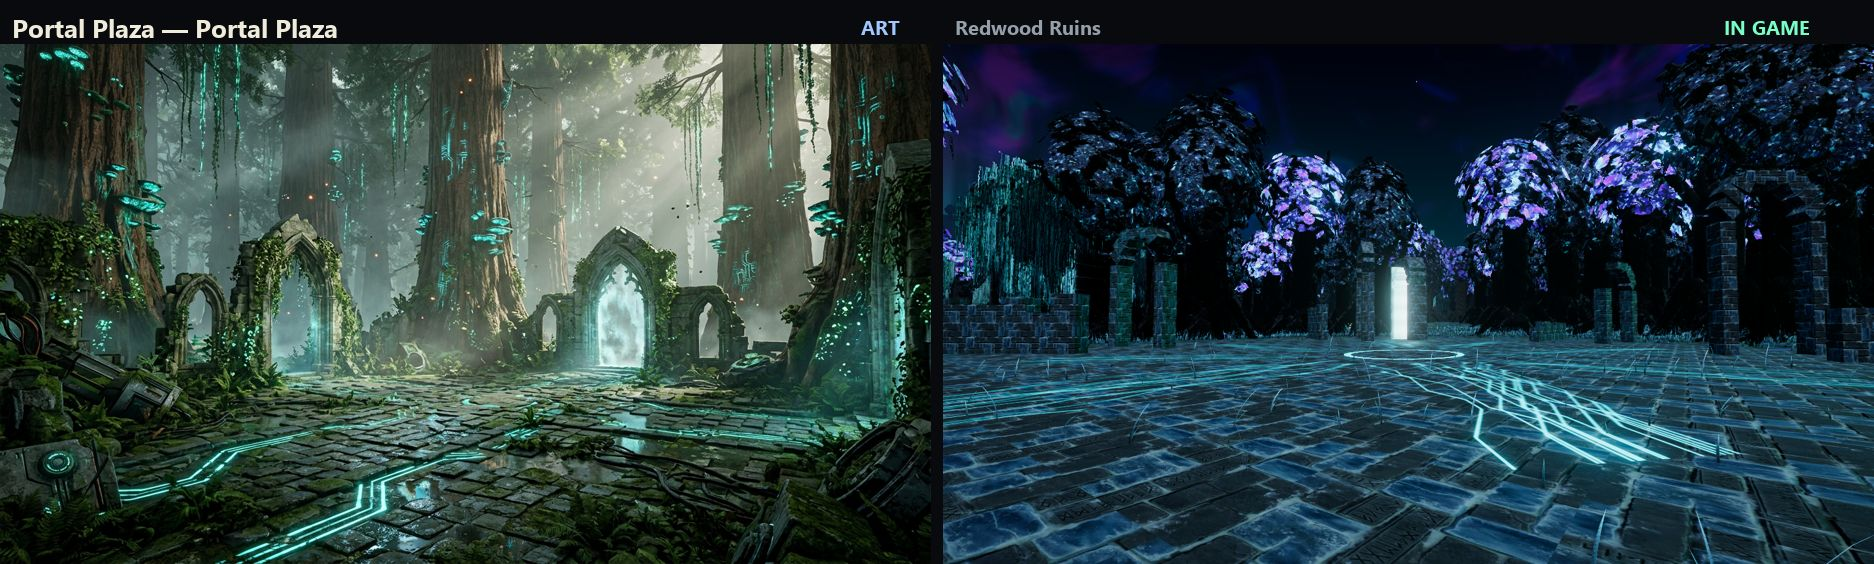
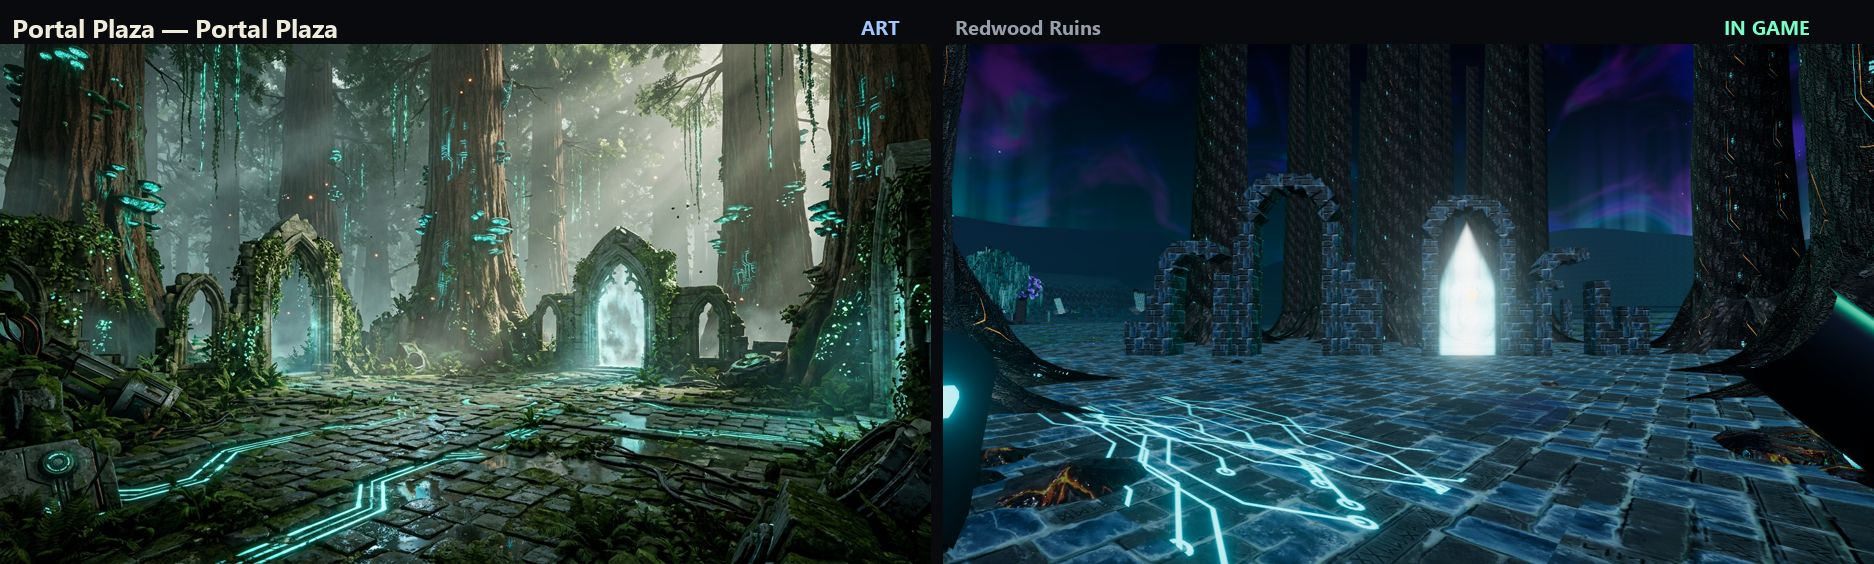
feat(rift-realm): depth score vs the art, Portal Plaza rebuilt from its shot's camera
- scripts/riftrealm/wilds_depth.py: art + game frame through the same local depth model (Depth Anything V2),
  aligned; layout and silhouette scores, diagnostic sheets
- Portal Plaza: redwood trunks framing the view, the ruin line with the arch and portal where the shot has them,
  a deeper stand behind, puddles, wreckage; silhouettes 0.238 -> 0.271 (total 0.627 -> 0.610: sky/haze and floor
  clutter dominate the remaining gap, noted in the doc)

Changed region(s): [[0.4952, 0.0603, 1.0, 1.0], [0.8975, 0.9947, 0.9285, 1.0], [0.7428, 0.1507, 0.7737, 0.1809]]

diff --git a/games/rift-realm/src/world/places.ts b/games/rift-realm/src/world/places.ts
@@ -7,6 +7,7 @@ import { CF_PLATFORM_OAK, CYBER_FOREST_TREES } from '../../../../services/vegeta
 import type { WildsCtx } from './registry';
 import type { WorldTerrain } from './terrain';
 import { type Kit, uniformBeat } from './kit';
+import { barkTube } from '../cyberforest';
 import { GREAT_FALLS, NEON_FALLS, POOL_FALLS, POOL_STREAM, RIVER, gorgeX, place, placeY, polyNear } from './layout';
 
 // the hollow's Great Oak deck (elderwood.ts OAK / DECK_R / DECK_Y)
@@ -22,6 +23,7 @@ export interface PlaceOut {
 }
 
 export function buildPlaces(ctx: WildsCtx, T: WorldTerrain, K: Kit): PlaceOut {
+  const terrain = T;
   const out: PlaceOut = { trees: [], clear: [], models: [], glows: [] };
   const H = (x: number, z: number) => T.surface(x, z);
   const { kit, B, mats, group, lo } = ctx;
@@ -550,25 +552,76 @@ export function buildPlaces(ctx: WildsCtx, T: WorldTerrain, K: Kit): PlaceOut {
   }
 
   function ruins() {
-    // ── Portal Plaza: flagstones under redwoods, gothic arches, the portal gate, cyan floor lines ──
+    // ── Portal Plaza (Bioluminescent_cyber_forest_spawn), composed from the shot's own camera: columnar redwood trunks
+    //    4–5 m across frame it; 31 m out a ruined wall line crosses the view (a tall pointed arch left, the portal gate
+    //    right of centre between broken arches); broken paving with puddles and circuit lines; machinery wreck in the
+    //    near corners. Scored with scripts/riftrealm/wilds_depth.py. ──
     {
       const p = place('portal-plaza'), py = placeY(p);
-      K.discPave(p.x, p.z, 26, py, 40);
-      for (let k = 0; k < 8; k++) K.circuit(p.x + Math.sin(k * 0.785) * 12, py, p.z + Math.cos(k * 0.785) * 12, 6, 14, k * 0.785, 0x2ae6ff, 80 + k);
-      K.ring(p.x, py, p.z, 3.2, 3.6);
-      const gx = p.x + 18, gz = p.z - 12, gyaw = -2.2;
-      K.arch(gx, gz, gyaw, 4.6, 6, { y: py, pointed: true, depth: 2 });
+      // the shot's camera (shots.ts): f = forward, r = screen right; at(d, s) = d metres ahead, s to the right
+      const cam = { x: 380, z: -96 }, fl = Math.hypot(38, -26), f = { x: 38 / fl, z: -26 / fl }, r = { x: -f.z, z: f.x };
+      const at = (d: number, s: number) => ({ x: cam.x + f.x * d + r.x * s, z: cam.z + f.z * d + r.z * s });
+      const wallYaw = Math.atan2(-r.z, r.x);                     // kit walls and arches run along (cos yaw, -sin yaw) = r
+      K.discPave(p.x, p.z, 30, py, 48);
+      // puddles in the sunk flagstones (the art's wet floor catching the glow)
+      const puddle = new THREE.MeshStandardNodeMaterial({ color: 0x0a1418, roughness: 0.03, metalness: 0.2, transparent: true, opacity: 0.55 });
+      for (const [d, s, rad] of [[9, 2, 1.4], [14, 6, 1.0], [17, -3, 1.2], [20, 3, 0.8], [12, -5, 0.7]] as const) {
+        const q = at(d, s), m = new THREE.Mesh(new THREE.CircleGeometry(rad, 24), puddle); m.rotation.x = -Math.PI / 2; m.scale.set(1.6, 1, 1); m.position.set(q.x, py + 0.05, q.z); group.add(m);
+      }
+      // circuit lines: in from the bottom-left of the frame toward the portal, and a ring of them round the plaza
+      { const q = at(7, -3.5); K.circuit(q.x, py, q.z, 3.5, 9, Math.atan2(f.x, f.z) + 0.9, 0x2ae6ff, 81); }
+      for (let k = 0; k < 3; k++) K.circuit(p.x + Math.sin(k * 2.1 + 2) * 20, py, p.z + Math.cos(k * 2.1 + 2) * 20, 4, 9, k * 2.1, 0x2ae6ff, 83 + k);
+      // the ruin line across the view: [s right, opening, pier height, broken stones]
+      const WD = 24;
+      for (const [sx, w, h, br] of [[-12.5, 2.5, 4.8, 2], [-7, 4.0, 7.8, 0], [3.5, 3.6, 6.8, 0], [9.5, 2.5, 4.4, 3]] as const) {
+        const q = at(WD, sx); K.arch(q.x, q.z, wallYaw, w, h, { y: py, pointed: true, depth: 1.6, broken: br });
+      }
+      for (const [s0, s1, h] of [[-16.5, -14.4, 4.0], [-10.2, -9.6, 8.2], [-4.6, -1.8, 6.5], [5.8, 7.8, 6.0], [11.2, 14, 3.2]] as const) {
+        const q = at(WD + 0.3, (s0 + s1) / 2); K.ruinWall(q.x, q.z, wallYaw, s1 - s0 + 0.4, h, s0 * 3 + 7);
+      }
+      // a second, lower line further back (the deeper arches in the haze)
+      for (const sx of [-4, 7, 16]) { const q = at(46, sx); K.arch(q.x, q.z, wallYaw, 3, 4.6, { y: H(q.x, q.z), pointed: true, broken: sx > 10 ? 2 : 0 }); }
+      // the portal, filling the arch right of centre (pointed top)
+      const g = at(WD, 3.5);
       const portal = new THREE.MeshBasicNodeMaterial({ transparent: true, side: THREE.DoubleSide, depthWrite: false });
       const pu = uv(); const shimmer = sin(pu.y.mul(30).sub(time.mul(3))).mul(0.15).add(0.85);
-      portal.colorNode = mix(color(0x9ff8ff), color(0xffffff), smoothstep(float(0.3), float(0.0), pu.x.sub(0.5).abs())).mul(shimmer).mul(float(1.8).add(beat.mul(0.8)));
-      portal.opacityNode = smoothstep(float(0.5), float(0.38), pu.x.sub(0.5).abs()).mul(0.85);
-      const pm = new THREE.Mesh(new THREE.PlaneGeometry(4.4, 8.2), portal); pm.position.set(gx, py + 4.1, gz); pm.rotation.y = gyaw + Math.PI / 2; group.add(pm);
-      for (const [a, r, w, h, br] of [[2.4, 20, 5, 7, 0], [3.4, 22, 4, 6.5, 2], [0.6, 22, 4.5, 8, 0], [1.2, 24, 3.6, 5, 4]] as const) K.arch(p.x + Math.sin(a) * r, p.z + Math.cos(a) * r, a + Math.PI / 2, w, h, { y: py, pointed: true, broken: br });
-      for (let k = 0; k < 6; k++) { const a = k * 1.1 + 0.4; K.ruinWall(p.x + Math.sin(a) * 25, p.z + Math.cos(a) * 25, a + Math.PI / 2, 6 + R() * 5, 2 + R() * 3, k + 20); }
-      for (let k = 0; k < 9; k++) { const a = (k / 9) * 6.283 + 0.2, r = 38 + R() * 12; giant(p.x + Math.sin(a) * r, p.z + Math.cos(a) * r, py + 38 + R() * 10, 2); }
-      out.clear.push([p.x, p.z, 30]);
-      glowAt(gx, py + 3, gz);
-      K.lamp(gx - 2, py + 3, gz + 2, 0x9ff8ff, 30);
+      const archShape = smoothstep(float(0.5), float(0.4), pu.x.sub(0.5).abs()).mul(smoothstep(float(1.0), float(0.82), pu.y.add(pu.x.sub(0.5).abs().mul(0.9))));
+      portal.colorNode = mix(color(0x7ff0ff), color(0xf4ffff), smoothstep(float(0.35), float(0.0), pu.x.sub(0.5).abs())).mul(shimmer).mul(float(1.9).add(beat.mul(0.8)));
+      portal.opacityNode = archShape.mul(0.9);
+      const pm = new THREE.Mesh(new THREE.PlaneGeometry(3.5, 8.2), portal); pm.position.set(g.x, py + 4.1, g.z); pm.rotation.y = Math.atan2(-f.x, -f.z); group.add(pm);
+      // the redwoods: [d, s, radius] — trunks that run out of the top of the frame, buttress roots, glowing shelf fungi
+      const trunks: [number, number, number][] = [[8, -13, 2.3], [10, 14, 2.5], [36, -1.5, 2.7], [40, 10, 2.5], [38, -18, 2.4], [48, -9, 2.2], [26, 22, 2.6], [55, 3, 2.0], [-6, -15, 2.4], [-4, 17, 2.4],
+        // the deeper stand behind the ruins (the art's haze of trunks, no open sky between them)
+        [62, -14, 2.2], [66, -4, 1.9], [70, 6, 2.1], [64, 15, 2.0], [78, -22, 2.3], [82, 0, 2.0], [86, 14, 2.2], [74, 24, 2.0], [58, -26, 2.0], [92, -10, 2.1]];
+      for (const [d, sx, rad] of trunks) {
+        const q = at(d, sx), gy = H(q.x, q.z), top = gy + 58;
+        const c = new THREE.CatmullRomCurve3([new THREE.Vector3(q.x, gy - 2, q.z), new THREE.Vector3(q.x + 0.3, gy + 20, q.z - 0.2), new THREE.Vector3(q.x - 0.2, gy + 40, q.z + 0.3), new THREE.Vector3(q.x, top, q.z)]);
+        K.barkGeos.push(barkTube(c, rad * 1.18, rad * 0.62, lo ? 10 : 18, lo ? 12 : 20, 0.35, q.x + q.z));
+        terrain.addTrunk(q.x, q.z, rad + 0.2, gy - 2, top);
+        for (let k = 0; k < 6; k++) {
+          const a = (k / 6) * 6.283 + d, len = rad * 2.6 + 1.5, ex = q.x + Math.sin(a) * len, ez = q.z + Math.cos(a) * len;
+          K.trimGeos.push(barkTube(new THREE.CatmullRomCurve3([new THREE.Vector3(q.x + Math.sin(a) * rad * 0.7, gy + rad * 1.6, q.z + Math.cos(a) * rad * 0.7), new THREE.Vector3(q.x + Math.sin(a) * len * 0.55, gy + 0.5, q.z + Math.cos(a) * len * 0.55), new THREE.Vector3(ex, H(ex, ez) - 0.3, ez)]), rad * 0.5, 0.15, 8, 7, 0.4, k + d));
+        }
+        for (let k = 0; k < 7; k++) { const a = R() * 6.283, hh = 3 + R() * 22; ctx.fungusSpots.push({ x: q.x + Math.sin(a) * rad * 0.98, y: gy + hh, z: q.z + Math.cos(a) * rad * 0.98, yaw: a, species: 4, scale: 1.4 + R() * 1.4 }); }
+        out.trees.push({ x: q.x, y: top - 14, z: q.z, yaw: d, species: 2, scale: 1.6 });   // a crown far overhead, out of frame
+      }
+      // vines down the arches, ferns and bushes along the walls and the sides
+      for (let k = 0; k < 16; k++) { const q = at(30 + R() * 2, -16 + R() * 32); ctx.plantSpots.push({ x: q.x, y: py + 5 + R() * 4, z: q.z, yaw: R() * 6.28, species: 3, scale: 0.6 + R() * 0.6 }); }
+      for (let k = 0; k < 40; k++) { const q = at(26 + R() * 6, -20 + R() * 40); plant(R() < 0.6 ? 0 : 1, q.x, q.z, 0.9 + R() * 0.8, py); }
+      for (let k = 0; k < 18; k++) { const sd = R() < 0.5 ? -1 : 1, q = at(3 + R() * 20, sd * (9 + R() * 8)); plant(R() < 0.5 ? 0 : 1, q.x, q.z, 1 + R() * 0.8, py); }
+      // machinery wreck and rubble in the near corners (the art's half-buried tech, bottom left and right)
+      for (const [d, sx, n] of [[4.6, -5.8, 1], [4.8, 6.2, 2]] as const) {
+        const q = at(d, sx);
+        K.rocks(q.x, q.z, 8, 2.0, [0.4, 0.9], 300 + n);
+        for (let k = 0; k < 6; k++) { const e = at(d + R() * 3, sx + (R() - 0.5) * 4); plant(R() < 0.6 ? 0 : 1, e.x, e.z, 1.6 + R() * 0.9, py); }
+        const tube = new THREE.Mesh(new THREE.CylinderGeometry(0.7, 0.7, 4.2, 14, 1, true), K.mats.metal);
+        tube.position.set(q.x, py + 0.55, q.z); tube.rotation.set(Math.PI / 2, n, 0.4 * n); tube.castShadow = !lo; group.add(tube);
+        const band = new THREE.Mesh(new THREE.TorusGeometry(0.72, 0.09, 6, 18), K.mats.cyanGlow); band.position.copy(tube.position); band.rotation.copy(tube.rotation); group.add(band);
+      }
+      for (let k = 0; k < 12; k++) { const q = at(4 + R() * 26, -14 + R() * 28); K.rocks(q.x, q.z, 1, 0.1, [0.2, 0.5], 400 + k); }
+      out.clear.push([p.x, p.z, 34]);
+      glowAt(g.x, py + 3, g.z);
+      K.lamp(g.x - f.x * 2, py + 3.5, g.z - f.z * 2, 0x9ff8ff, 34);
     }
     // ── Circuit Court: a square court, lines converging on a stele on round steps, ruin walls ──
     {

diff --git a/scripts/riftrealm/wilds_depth.py b/scripts/riftrealm/wilds_depth.py
@@ -1,0 +1,93 @@
+"""Rift Realm — Elderwood Wilds: geometry score of a place against its art shot.
+
+Both images (the art and the game frame from the same camera) go through the same monocular depth model
+(Depth Anything V2, local, D:/Plajah Runtime/tela-py). The game's relative depth is aligned to the art's (scale + shift
+on inverse depth, least squares), then scored:
+  depth  = share of pixels whose aligned inverse depth is within 10 % of the art's (the layout: what is near, what is far)
+  edges  = F-score of depth discontinuities (silhouettes: arches, pillars, trunks, deck edges), 3 px tolerance
+  score  = 0.6 depth + 0.4 edges
+and a diagnostic image is written: art | game | art depth | game depth | error (red = game too near, blue = too far).
+
+  "D:/Plajah Runtime/tela-py/Scripts/python.exe" scripts/riftrealm/wilds_depth.py portal-plaza [more ids…]
+"""
+import os, re, sys, json
+os.environ.setdefault("HF_HOME", "D:/Plajah Runtime/cache/hf")
+import numpy as np, torch
+from PIL import Image, ImageDraw
+from transformers import pipeline
+
+ROOT = os.path.dirname(os.path.dirname(os.path.dirname(os.path.abspath(__file__))))
+sys.path.insert(0, os.path.dirname(os.path.abspath(__file__)))
+import importlib.util
+spec = importlib.util.spec_from_file_location("pairs_src", os.path.join(os.path.dirname(os.path.abspath(__file__)), "wilds_pairs.py"))
+
+GAME = "D:/rr_work/wilds/game/"
+OUT = "D:/rr_work/wilds/depth/"
+W, H = 768, 432
+os.makedirs(OUT, exist_ok=True)
+
+def shot_art(sid):
+    # reuse wilds_pairs.py's shot table and art loader (video frames included) without running its main
+    src = open(spec.origin, encoding="utf-8").read().split("os.makedirs(OUT, exist_ok=True)")[0]
+    g = {"__file__": spec.origin}; exec(src, g)
+    s = next(s for s in g["shots"] if s["id"] == sid)
+    return g["art_image"](s)
+
+def fit(im, ar):
+    if im.width / im.height > ar: w = int(im.height * ar); im = im.crop(((im.width - w) // 2, 0, (im.width - w) // 2 + w, im.height))
+    else: h = int(im.width / ar); im = im.crop((0, (im.height - h) // 2, im.width, (im.height - h) // 2 + h))
+    return im
+
+_pipe = None
+def depth(im):
+    global _pipe
+    if _pipe is None:
+        _pipe = pipeline("depth-estimation", model="depth-anything/Depth-Anything-V2-Base-hf", device=0 if torch.cuda.is_available() else -1)
+    d = np.asarray(_pipe(im)["predicted_depth"].squeeze().float().cpu().numpy(), dtype=np.float32)   # relative inverse depth (big = near)
+    return np.asarray(Image.fromarray(d).resize((W, H), Image.BILINEAR))
+
+def edges(d):
+    gx = np.abs(np.diff(d, axis=1, append=d[:, -1:])); gy = np.abs(np.diff(d, axis=0, append=d[-1:, :]))
+    g = np.hypot(gx, gy) / (np.abs(d) + 1e-3)
+    return g > np.percentile(g, 92)
+
+def dilate(m, r):
+    out = m.copy()
+    for dy in range(-r, r + 1):
+        for dx in range(-r, r + 1):
+            out |= np.roll(np.roll(m, dy, 0), dx, 1)
+    return out
+
+def score(sid):
+    art = shot_art(sid).convert("RGB")
+    gp = next((GAME + sid + e for e in (".png", ".jpg") if os.path.exists(GAME + sid + e)), None)
+    game = Image.open(gp).convert("RGB")
+    ar = art.width / art.height
+    art, game = fit(art, ar).resize((W, H)), fit(game, ar).resize((W, H))
+    da, dg = depth(art), depth(game)
+    da = (da - da.min()) / (np.ptp(da) + 1e-6); dg = (dg - dg.min()) / (np.ptp(dg) + 1e-6)
+    A = np.stack([dg.ravel(), np.ones(dg.size)], 1); s, t = np.linalg.lstsq(A, da.ravel(), rcond=None)[0]
+    dga = dg * s + t
+    err = dga - da
+    depth_ok = float(np.mean(np.abs(err) < 0.10))
+    ea, eg = edges(da), edges(dga)
+    prec = float((eg & dilate(ea, 3)).sum() / max(1, eg.sum())); rec = float((ea & dilate(eg, 3)).sum() / max(1, ea.sum()))
+    f = 2 * prec * rec / max(1e-6, prec + rec)
+    total = 0.6 * depth_ok + 0.4 * f
+    # diagnostic
+    def gray(d): return Image.fromarray((np.clip(d, 0, 1) * 255).astype(np.uint8)).convert("RGB")
+    e = np.clip(err / 0.3, -1, 1); rgb = np.zeros((H, W, 3), np.uint8)
+    rgb[..., 0] = (np.clip(e, 0, 1) * 255).astype(np.uint8); rgb[..., 2] = (np.clip(-e, 0, 1) * 255).astype(np.uint8); rgb[..., 1] = ((1 - np.abs(e)) * 60).astype(np.uint8)
+    sheet = Image.new("RGB", (W * 3, H * 2 + 40), (10, 10, 14))
+    for k, im in enumerate([art, game, Image.fromarray(rgb), gray(da), gray(dga), Image.fromarray(np.stack([ea * 255, eg * 255, ea * 0], -1).astype(np.uint8))]):
+        sheet.paste(im, ((k % 3) * W, 40 + (k // 3) * H))
+    ImageDraw.Draw(sheet).text((10, 10), f"{sid}  score {total:.3f}  (depth {depth_ok:.3f}, edges F {f:.3f})   art | game | error (red: game too near, blue: too far) / art depth | game depth | edges (red art, green game)", fill=(240, 240, 240))
+    sheet.save(OUT + sid + ".jpg", quality=82)
+    return {"id": sid, "score": round(total, 3), "depth": round(depth_ok, 3), "edgesF": round(f, 3)}
+
+if __name__ == "__main__":
+    res = [score(s) for s in sys.argv[1:]]
+    print(json.dumps(res))
+    log = OUT + "scores.jsonl"
+    with open(log, "a", encoding="utf-8") as fh:
+        for r in res: fh.write(json.dumps(r) + "\n")

diff --git a/docs/rift-realm-open-world.md b/docs/rift-realm-open-world.md
@@ -121,6 +121,21 @@ the stone tower houses, the statues of Zone 10, the sniper shelter. Art is dayli
 surface is a flat glowing sheet, no white water). The High Canopy bridges are walkable; enemies still path only inside the
 hollow.
 
+### Geometry score against the art (2026-11-22)
+
+`scripts/riftrealm/wilds_depth.py <shot ids>` (run with `D:/Plajah Runtime/tela-py/Scripts/python.exe`) puts the art shot and
+the game frame through the same local depth model (Depth Anything V2 Base), aligns them, and scores the layout (share of
+pixels within 10 % depth) and the silhouettes (edge F-score); diagnostics in D:/rr_work/wilds/depth, the Portal Plaza one is
+`docs/rift-realm-wilds/depth/portal-plaza.jpg`.
+
+**Portal Plaza, first place done this way:** rebuilt from the shot's own camera: columnar redwood trunks framing the edges,
+the ruin line 24 m out with the tall pointed arch left and the portal arch right of centre, a deeper stand of trunks behind,
+puddles, near-corner wreckage. Silhouettes 0.238 → 0.271; the total score 0.627 → 0.610, so it did not go up. The old
+open plaza matched the art's broad near-to-far floor gradient, and what still costs points is not the ruins: the night sky
+above them where the art has a hazy daytime stand of trunks and foliage, and the bare flagstones where the art's floor is
+full of moss, ferns and roots. Next for every place: score under a daytime haze (as the shots are lit), mask the sky, and
+add the floor clutter; the rocks still show the volcanic sheet's orange cracks and need a forest rock material.
+
 ## Track 2 — Characters from video
 - Every clip comes from the character's own motion videos (services/mocap: capture → solveTake → clipToThree →
   retarget), never hand-keyed. Assassin, Archangel, Cyber-Assassin and the other combat videos sit in
